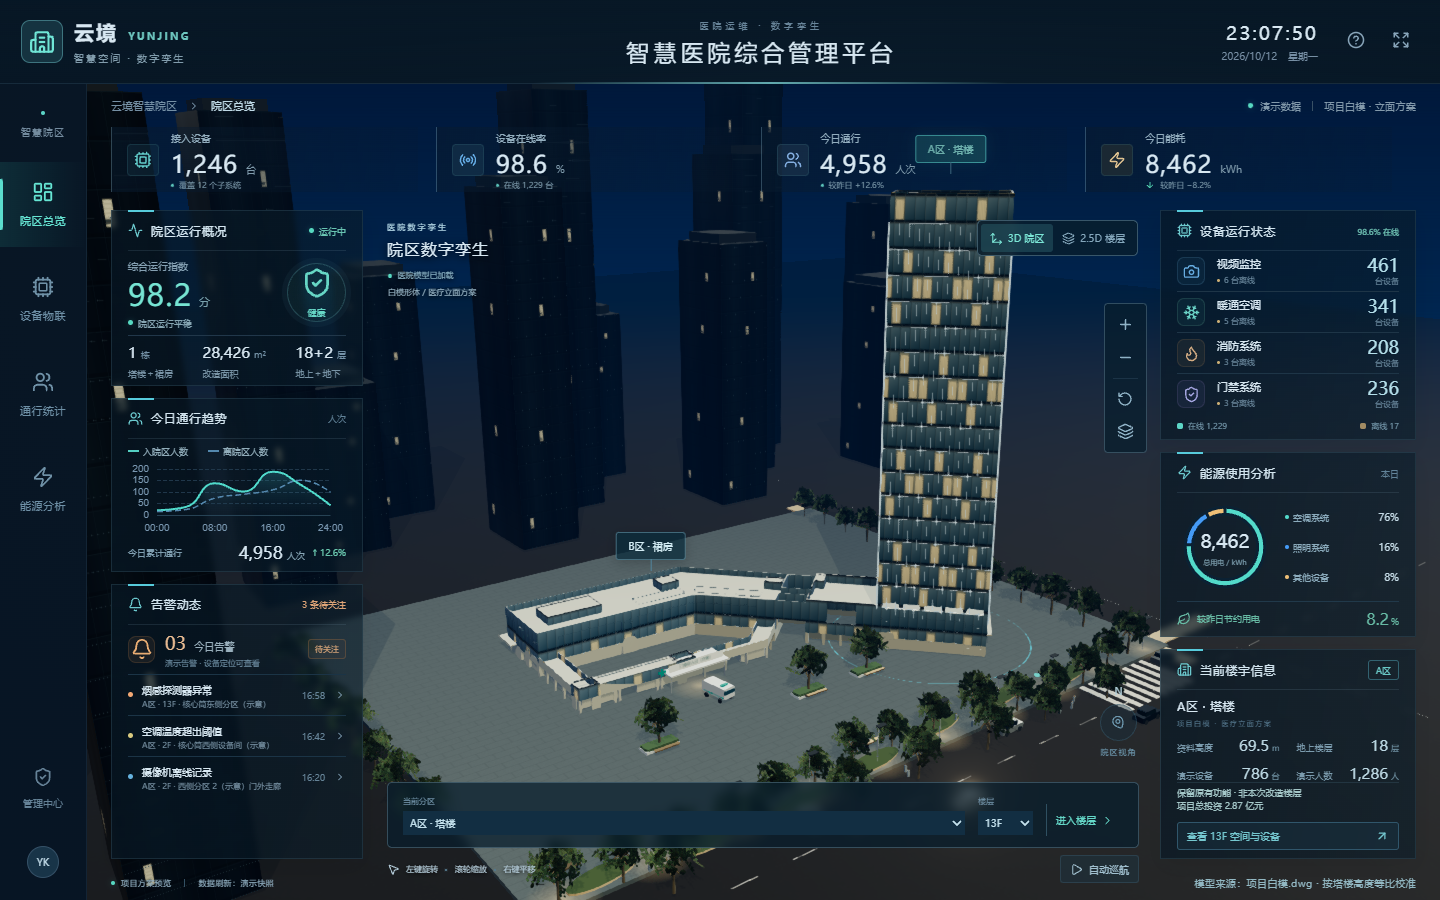
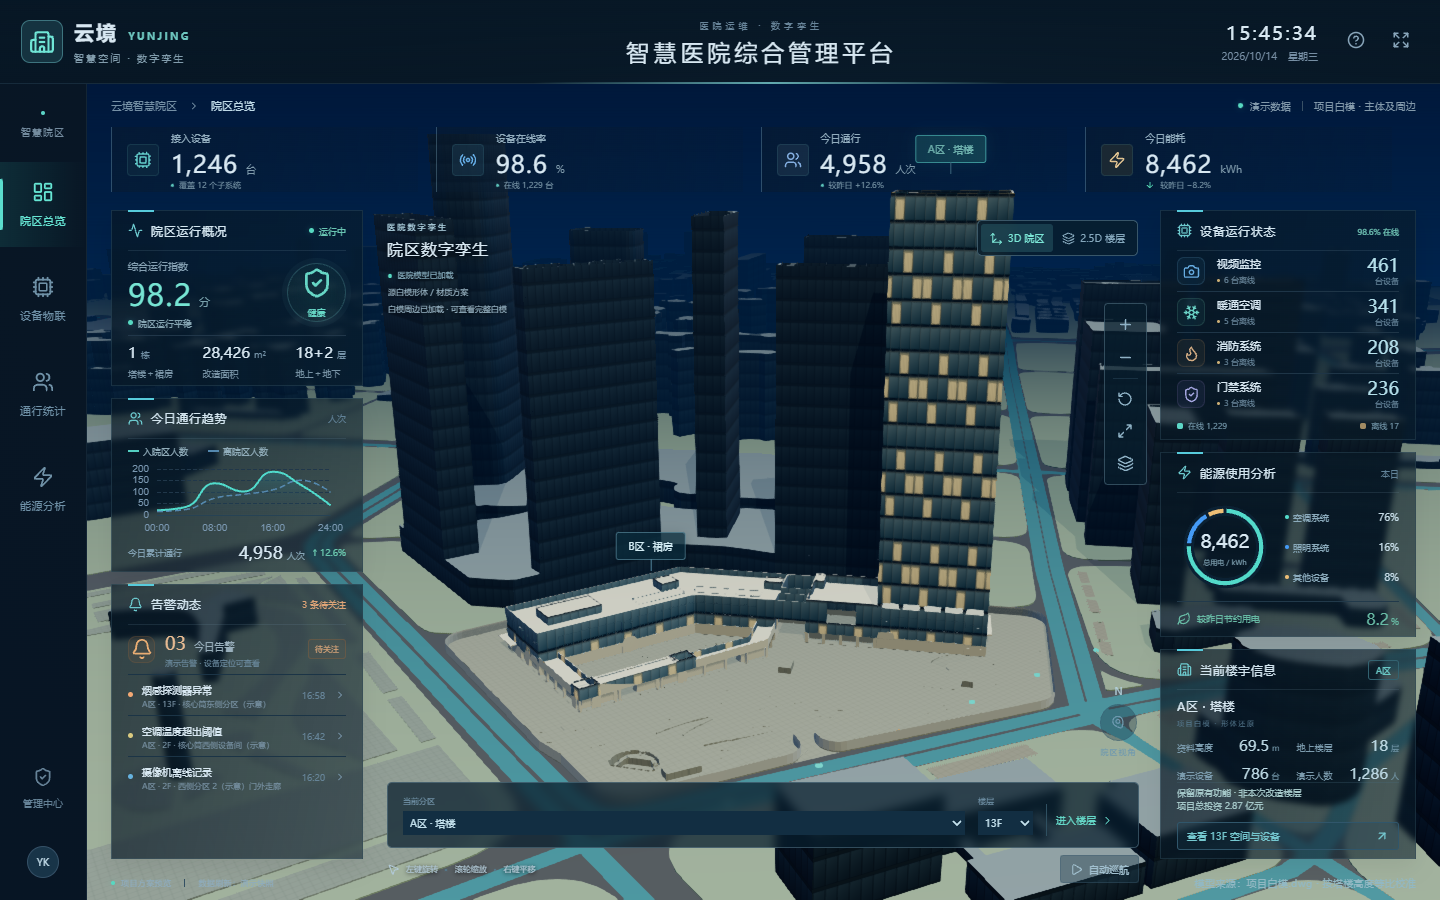
docs: archive source model restoration and record public acceptance [skip ci]

diff --git a/harness/production.spec.ts b/harness/production.spec.ts
@@ -15,7 +15,8 @@ test('production assets and model interactions work under repository URL', async
   await expect(page.getByRole('heading', { name: '智慧医院综合管理平台' })).toBeVisible();
   const canvas = page.locator('.scene-host canvas');
   await expect(canvas).toBeVisible();
-  await expect(page.locator('.model-state')).toContainText('医院模型已加载');
+  // Cold public asset download/graphics initialization is separate from UI interaction latency.
+  await expect(page.locator('.model-state')).toContainText('医院模型已加载', { timeout: 30000 });
   await expect(page.locator('.context-state')).toContainText('白模周边已加载', { timeout: 30000 });
   await expect(page.getByRole('button', { name: '选择A区' })).toBeVisible();
   expect(await page.evaluate(() => typeof (window as any).__BUILDING_HARNESS__)).toBe('undefined');

diff --git a/openspec/specs/building-visualization/spec.md b/openspec/specs/building-visualization/spec.md
@@ -24,7 +24,7 @@ The application MUST provide a visible automatic-rotation toggle that works only
 - **THEN** camera orientation changes while active and stabilizes after controls damping settles
 
 ### Requirement: Building selection and scene layers
-The application MUST select source tower/podium zones through visible labels or scene picking and independently toggle device markers and illustrative surrounding buildings.
+The application MUST select source tower/podium zones through visible labels or scene picking and independently toggle device markers and original source surrounding buildings while retaining the source site.
 
 #### Scenario: Selected building
 - **WHEN** the user selects B区
@@ -49,15 +49,15 @@ The application MUST show an actionable error when WebGL creation fails or the r
 - **THEN** the UI displays a readable rendering failure with a reload action instead of an empty canvas
 
 ### Requirement: Detailed architectural rendering
-The hospital scene MUST render the supplied DWG hospital exterior with proposed finishes, reflective glazing, visible facade structure, rooftop equipment and landscaped ground. Optional surrounding city buildings and landscaping MUST be identified as illustrative. All assets MUST remain genuine rotatable geometry and MUST be identified as source white-model geometry with proposed finishes, without asserting a verified production BIM connection.
+The hospital scene MUST render the supplied DWG hospital exterior and source surroundings/site with proposed reflective glazing and surface finishes, preserving source facade and rooftop geometry. All assets MUST remain genuine rotatable geometry and MUST distinguish source shape, proposed finishes and unverified dimensions/interiors without asserting a production BIM connection.
 
 #### Scenario: Inspect the default architectural view
 - **WHEN** the user opens the 3D overview
-- **THEN** the DWG-derived tower/podium, generic Chinese entrance signs and landscaped ground are visible
+- **THEN** the DWG-derived tower/podium, original surrounding buildings and source site are visible with no unsupported architectural additions
 
 #### Scenario: Inspect another side
 - **WHEN** the user rotates and zooms with pointer and wheel
-- **THEN** side and rear architectural geometry remains visible and camera reset and selection stay usable
+- **THEN** source side/rear geometry remains visible and camera reset and selection stay usable
 
 ### Requirement: Rendering resource lifecycle
 Generated geometry, materials, textures and reflection render targets MUST be disposed when the scene is destroyed; rendering MUST retain responsive floor switching and graphics recovery.
@@ -73,11 +73,11 @@ An idle scene MUST avoid continuous GPU redraws while camera motion, automatic r
 - **THEN** the idle rendered-frame count stays stable, zoom advances rendered frames, and hiding surroundings changes the rendered background
 
 ### Requirement: Architectural night light hierarchy
-The scene MUST present differentiated hospital facade materials, illuminated entrances, dimmer surroundings, dark roads and leafy landscape silhouettes. Rotation MUST reveal side and rear facades.
+The scene MUST present differentiated proposed hospital facade finishes, dimmer source surrounding buildings and legible source site divisions. Rotation MUST reveal source side/rear geometry; lighting and materials MUST NOT replace or invent architectural shape.
 
 #### Scenario: Default and reverse architectural views
 - **WHEN** the user opens the overview and rotates the scene
-- **THEN** the hospital remains distinct from contextual surroundings, reflective glazing responds to view direction and landscaping retains three-dimensional depth
+- **THEN** the hospital remains distinct from source context, glazing responds to view direction and source buildings/site retain three-dimensional depth
 
 ### Requirement: Locally packaged scene assets
 Any third-party scene assets MUST be locally packaged with source/license documentation and respect the production repository base path. Late asset completion MUST not mutate a disposed scene.
@@ -136,3 +136,25 @@ The application MUST render a deterministic, visibly different arrangement for e
 #### Scenario: Repeated floor switching
 - **WHEN** a user rotates the floor view and repeatedly changes floors or zones
 - **THEN** camera pose remains stable, replaced floor resources are disposed, only current equipment markers remain, and returning to 3D restores the saved exterior pose
+
+### Requirement: Original white-model surroundings and site
+The application MUST render the supplied white model's surrounding city, nearby buildings and site meshes with traceable source handles, original relative coordinates and the same uniform scale/anchor as the hospital. Procedural city and ground footprints MUST NOT replace that source topology. Proposed finishes and added details MUST remain clearly distinguished from source geometry.
+
+#### Scenario: Inspect restored source surroundings
+- **WHEN** a visitor opens the hospital model and its full-white-model view
+- **THEN** source city and nearby buildings plus original local/broad site meshes are visible, and camera reset returns to the hospital view
+
+#### Scenario: Source surroundings layer and picking
+- **WHEN** a visitor hides/shows surrounding buildings or clicks visible context geometry
+- **THEN** only the context buildings change visibility, source site remains visible, and clicking context does not select a hospital zone behind it
+
+#### Scenario: Context loading lifecycle and recovery
+- **WHEN** a context asset fails or finishes after its scene has been reloaded
+- **THEN** failure has a Chinese reload action, late resources are disposed without attaching to the old scene, and the current scene has one working renderer
+
+### Requirement: Hospital source shape fidelity
+The hospital exterior MUST preserve the provided source tower/podium shape and MUST NOT add unsupported facade members, entrance structures or landscaping. Source shape fidelity MUST be distinguished from surveyed physical dimensions, actual material finishes and unverified interiors.
+
+#### Scenario: Compare the hospital with its source
+- **WHEN** a user opens and rotates the hospital exterior
+- **THEN** the supplied source geometry remains intact without extra architectural shapes, while proposed materials and the project-based uniform calibration are clearly identified

diff --git a/docs/release.md b/docs/release.md
@@ -1,5 +1,17 @@
 # GitHub Pages 发布记录
 
+## 2026-10-14 原白模周边与主体形体恢复发布
+
+- 已部署运行源码：`af98732667327683ee3d177c975f660fc58a02e9`。
+- 成功工作流：[38527104608](https://github.com/guangfubill-crypto/smart-building-twin/actions/runs/38527104608)。规格4/4，Linux Chromium/SwiftShader30/30（14.7分钟），构建15m35s、部署14s。
+- 本地完整30/30（2.6分钟）、生产子路径1/1（16.7秒）；公网生产最终1/1（37.1秒）。HTML`index-kqpIQF4K.js`/`index-C7vJ3LjE.css`及周边清单实际匹配。
+
+恢复20个源周边/场地网格（64799三角形，约6.24MB），保留与主体同一坐标轴、统一比例和anchor。主体原GLB保持；无依据的程序幕墙、入口/雨棚、场地和景观造型已移除。增加“查看完整白模”，复位回主体；“周边建筑”图层可单独隐藏周边而保留场地，方便核对主体。真实指针、图层、原28个不同楼层、设备/告警、加载失败与晚到资源均验证。
+
+形体指提供的源白模，不称已核准的实景材质、内部或现场一比一尺寸。当前按资料69.5m统一校准，DWG单位头标米但结构205单位的矛盾已说明；严格尺寸基准仍待用户核实，材质和室内也需实际资料。
+
+体验：[源白模主体与周边版](https://guangfubill-crypto.github.io/smart-building-twin/?v=af98732)。公网`source-context-online-default.png`/`source-context-online-full.png`已检查，三项模型/环境资产200，无浏览器错误，生产无开发诊断入口。首次默认5秒主体初始化等待不足，改为单独30秒资产窗口后完整执行通过；交互和错误断言未放宽。后续文档/归档提交不改变已部署的运行代码。
+
 ## 2026-10-12 每层独立布局发布
 
 - 已部署源码：`6c57c3a8a2575bcba152ed74fed9365f1941edd5`。

diff --git a/task_plan.md b/task_plan.md
@@ -8,7 +8,7 @@
 2. 记录OpenSpec方案并转换周边资产 — complete
 3. 接入源周边、场地材质与图层生命周期，并去除主体外加造型 — complete
 4. 规格/构建/完整harness和实际截图检查 — complete
-5. GitHub发布、公网验证、证据归档 — in_progress
+5. GitHub发布、公网验证、证据归档 — complete
 
 ## 已确认约束
 - 不凭空添加医院附属楼或机构名称；源形体和新增材质/数据的示意边界清楚。
@@ -23,3 +23,5 @@
 - 已在微信msg/file长期目录找到原DWG并核对哈希一致，此错误已解决。
 - 旧耳切算法遗漏562中的两个带孔/自接触边界；已尝试锁定Earcut恢复，覆盖面积校验拒绝了其中一面，正在核对环与孔结构，不允许直接扇形填洞。
 - 已解决：562面22为带接触桥的孔，面978有一处自交；通过Earcut和精确边界交点分瓣恢复，并核对每瓣覆盖面积。4个真正零面积面不输出三角形。
+- 首次公网验收资产返回200，但主体仍在初始化，超过原生产断言默认5秒。资产初始化改为与周边同等30秒等待，交互/错误断言不变，继续验证实际完成状态。
+- 已解决：公网生产验收1/1（37.1秒）通过，实际加载/旋转/全景/楼层设备和资源/错误检查全部完成；规格归档后3/3严格校验通过。运行版本af98732已部署，严格现场尺寸与实景/内部资料仍为明确待核实边界。

diff --git a/progress.md b/progress.md
@@ -14,3 +14,7 @@
 - 完整本地harness30/30（2.6分钟）通过；严格规格4/4和仓库子路径构建通过。默认/全景已检查，768/390场景完整无横向溢出。正在做生产路径验收。
 - 仓库子路径生产harness1/1（16.7秒，用例16.0秒）通过，检查HDR/主体/周边三项资产200、真实指针和全景/复位、楼层/设备/导航及无开发快照。
 - 原生NVIDIA RTX5090/ANGLE D3D11捕获默认、滚轮近景和实际拖拽反向三张截图；运行无浏览器错误。不是FPS测量。
+- 已推送运行源码af98732667327683ee3d177c975f660fc58a02e9。云端工作流38527104608成功：规格4/4、30/30（14.7分钟）、构建15m35s/部署14s。公网HTML和周边清单哈希已匹配，正在收尾公网浏览器验收与归档。
+- 首次公网生产harness在主体“加载中”阶段触发默认5秒初始化断言；资源响应已200，未记录为通过。将主体初始化等待与周边的30秒窗口对齐，交互和错误目标不变，正在重新执行。
+- 最终公网生产1/1（37.1秒；用例36.3秒）通过，无浏览器/资源错误，三项资产200；公网默认及完整白模截图均打开检查。
+- OpenSpec归档为2026-10-14-source-white-model-context，主规格+3/~3，归档后严格3/3通过。全部阶段完成；运行源码仍为af98732，后续只保存文档、脚本等待调整和证据。临时4188已关闭，4187开发预览保留。

diff --git a/AGENTS.md b/AGENTS.md
@@ -4,6 +4,7 @@ This project follows the user's OpenSpec + harness workflow.
 
 - Read `openspec/specs/` and the relevant active change before changing behavior. For a new user-visible capability, record proposal, scenarios, design and tasks under `openspec/changes/<name>/` before implementation.
 - Preserve real Three.js geometry and real pointer-based rotation; do not replace the model with a screenshot or CSS rotation.
+- Hospital exterior and surroundings/site must retain source geometry. Do not reintroduce unsupported facade/entrance/landscape shapes or procedural city/ground footprints. HospitalAsset and ProjectContextAsset share the source calibration/anchor; finishes and interiors remain unverified proposals until actual references are supplied.
 - Keep synthetic models and data explicitly identified. Do not claim a production BIM/IoT connection without provided and verified assets/endpoints.
 - Use the existing `BuildingScene` for camera and GPU lifecycle. Call `dispose` when unmounting. Clear OrbitControls residual momentum before exact pose restoration.
 - When locating equipment across buildings/floors, apply pending selection after floor/mode effects. Floor selection must not exceed the selected building's floor count.

diff --git a/openspec/specs/dashboard-interaction/spec.md b/openspec/specs/dashboard-interaction/spec.md
@@ -79,3 +79,10 @@ The dashboard MUST show the current zone/floor schematic plan summary and resolv
 #### Scenario: Locate equipment across contexts
 - **WHEN** a user locates an alarm on a different floor while a category filter is active
 - **THEN** the filter resets and the equipment detail uses the target floor's proposed location after its geometry has updated
+
+### Requirement: White-model scope controls and provenance
+The dashboard MUST distinguish original hospital/context/site geometry from proposed finishes and schematic interiors, expose context loading status and provide a Chinese full-white-model view control. Hospital selection, floor scope, equipment context and saved exterior pose MUST remain consistent.
+
+#### Scenario: Full source view and floor return
+- **WHEN** the user opens the full-white-model view, enters a floor then returns to3D
+- **THEN** the prior full-view camera and context presentation are restored, and reset returns to the hospital framing

diff --git a/findings.md b/findings.md
@@ -20,3 +20,4 @@
 - 主体584源审计：1445源多边形，旧转换输出2783三角形，无非零面积有效面遗漏。主体GLB哈希仍为原值；不必改写其几何来恢复形体。无源依据的运行时附加造型已移除。
 - 768/390全景截图已打开检查，完整源圆形场地与城市可见，控制器/图层/复位可用。平板场景改为独占首行，避免完整源范围缩在原窄列里。
 - 原生RTX5090默认/近景/反向及隐藏周边后的主体反向截图均捕获检查；近邻建筑按源位置遮挡部分角度，图层隐藏后可单独检视源主体。没有浏览器error，未做FPS测量。
+- 公网运行af98732已核对产物/来源清单，最终生产harness1/1（37.1秒），实际默认/全景截图均检查，三项资产200，无浏览器错误。首次主体加载超过默认5秒，改为独立30秒初始化窗口后通过，操作和错误目标不变。

diff --git a/openspec/changes/archive/2026-10-14-source-white-model-context/tasks.md b/openspec/changes/archive/2026-10-14-source-white-model-context/tasks.md
@@ -6,4 +6,4 @@
 ## Verification and delivery
 - [x] Add source/context, full-view and delayed/failing-loading harness scenarios.
 - [x] Run strict specs/build/full harness and inspect actual rendered screenshots.
-- [ ] Publish, verify public behavior, record evidence and archive.
+- [x] Publish, verify public behavior, record evidence and archive.
